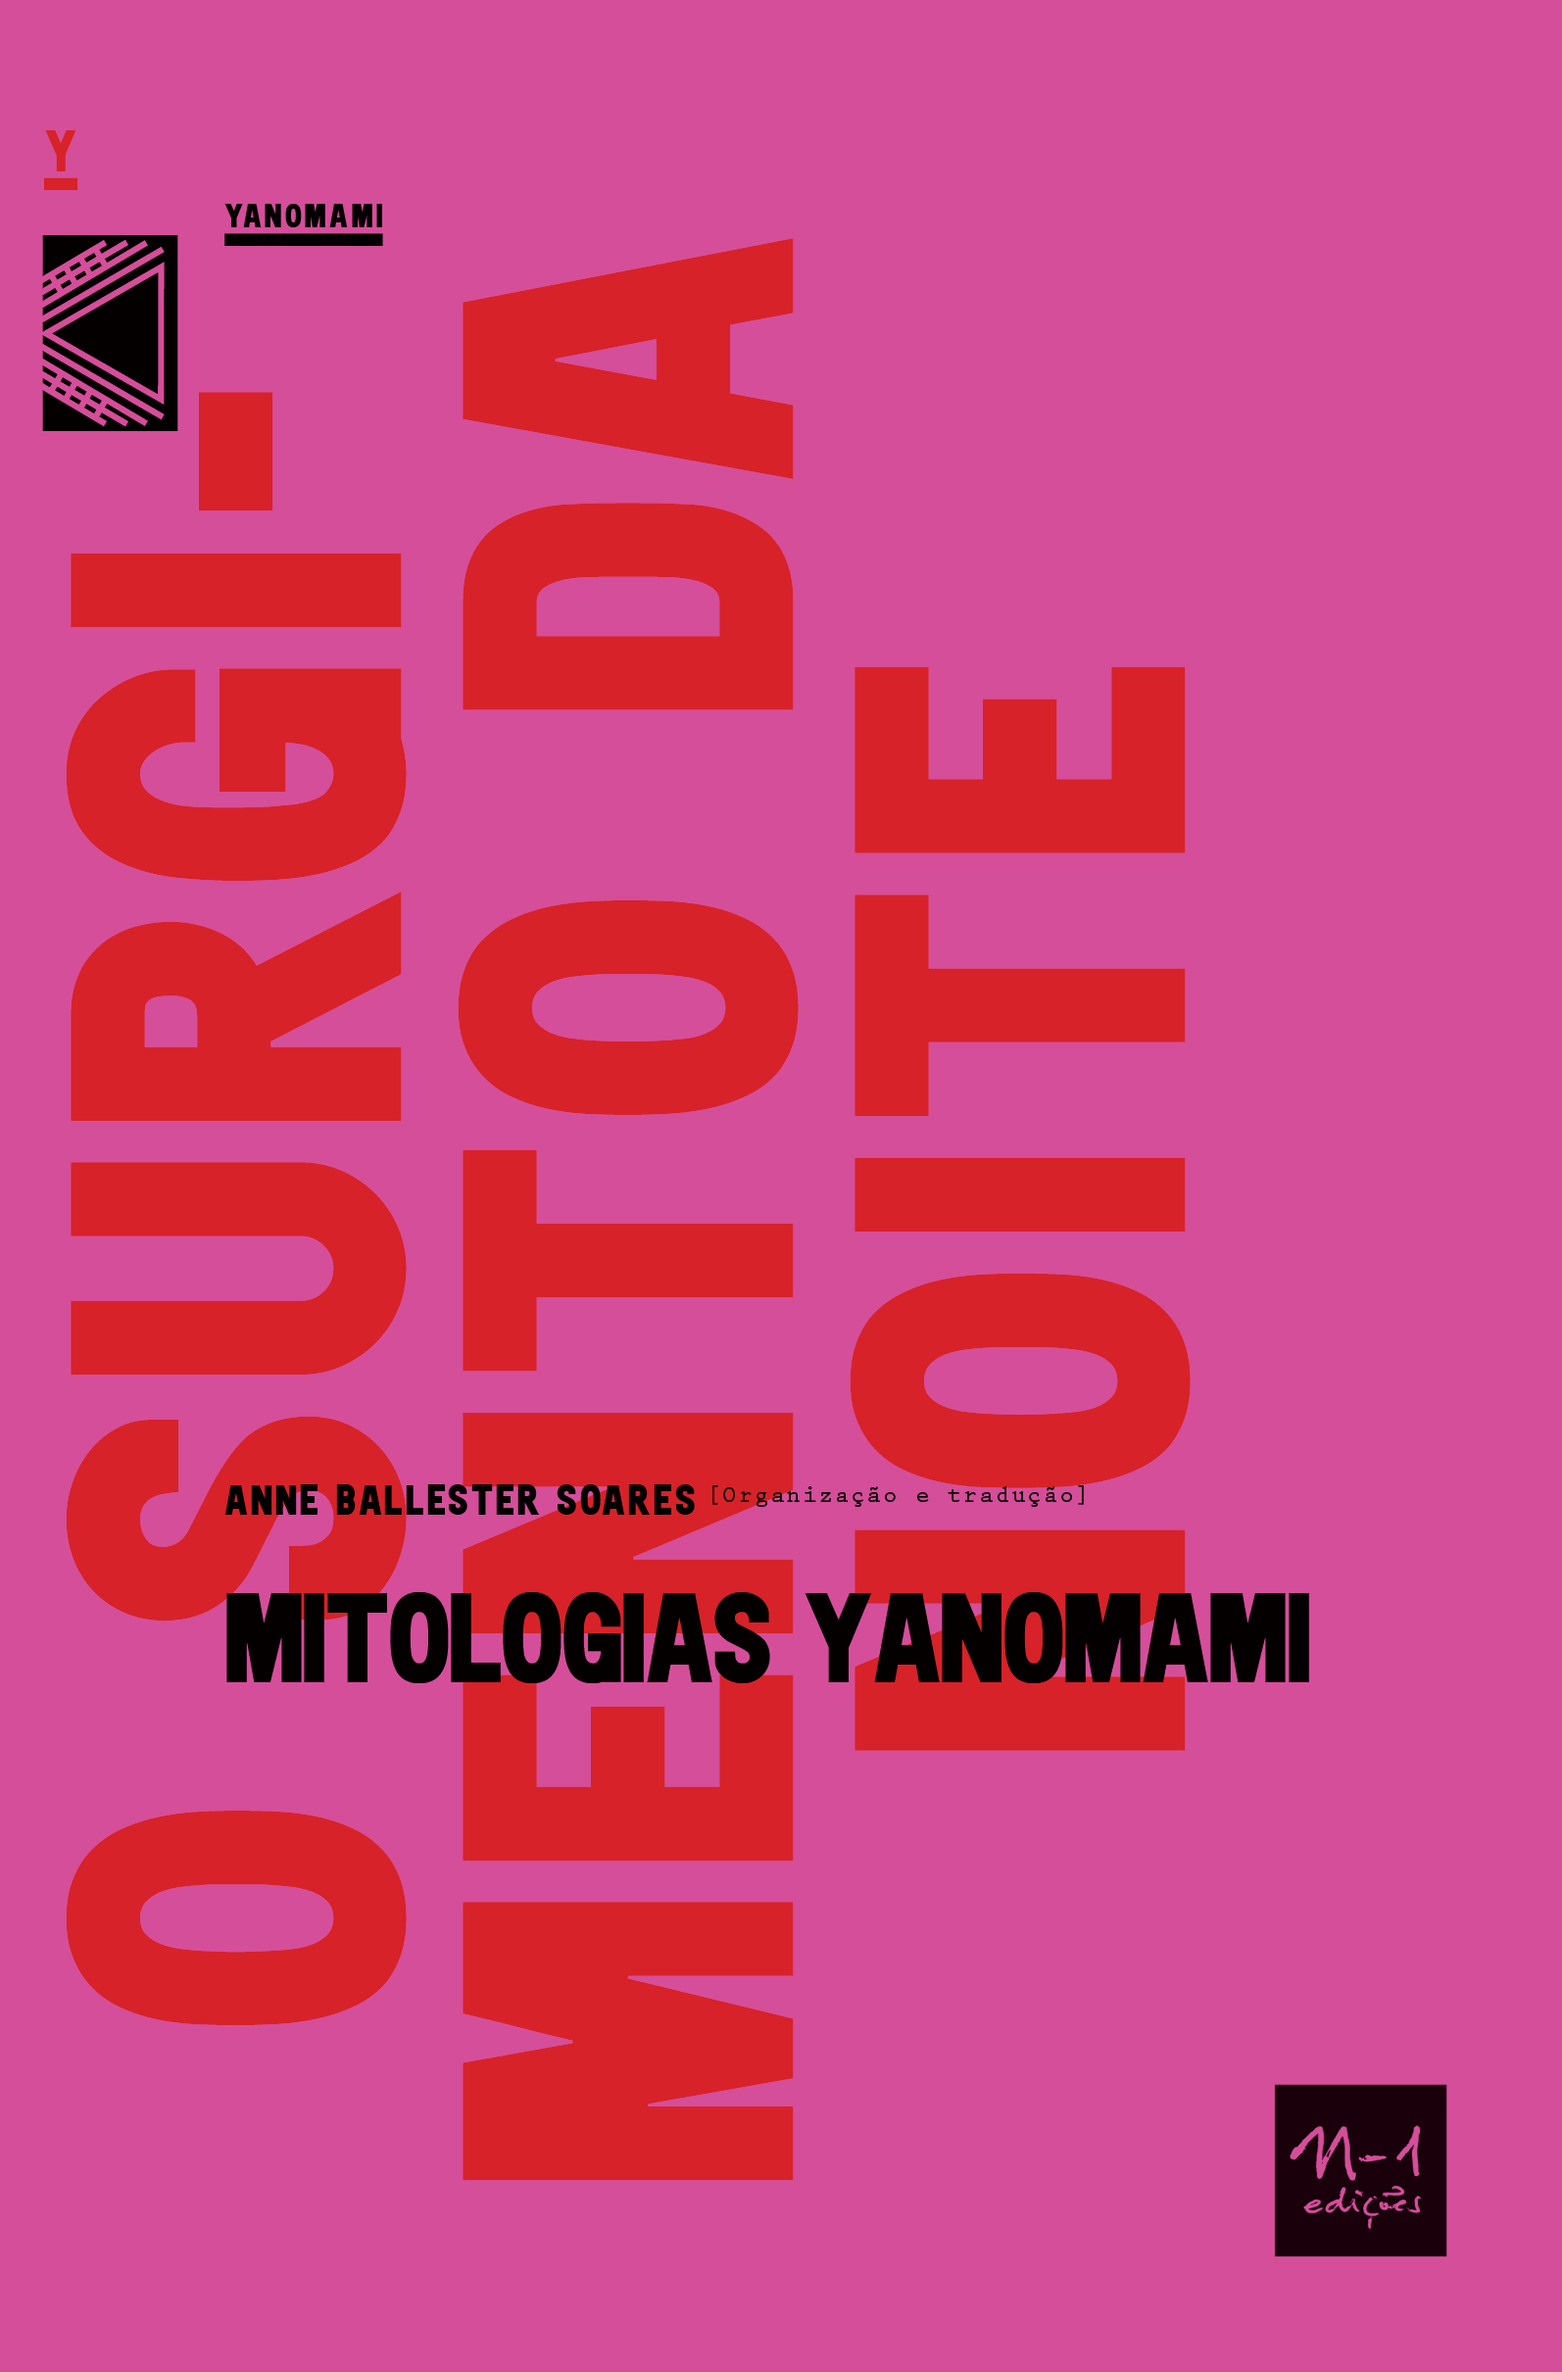
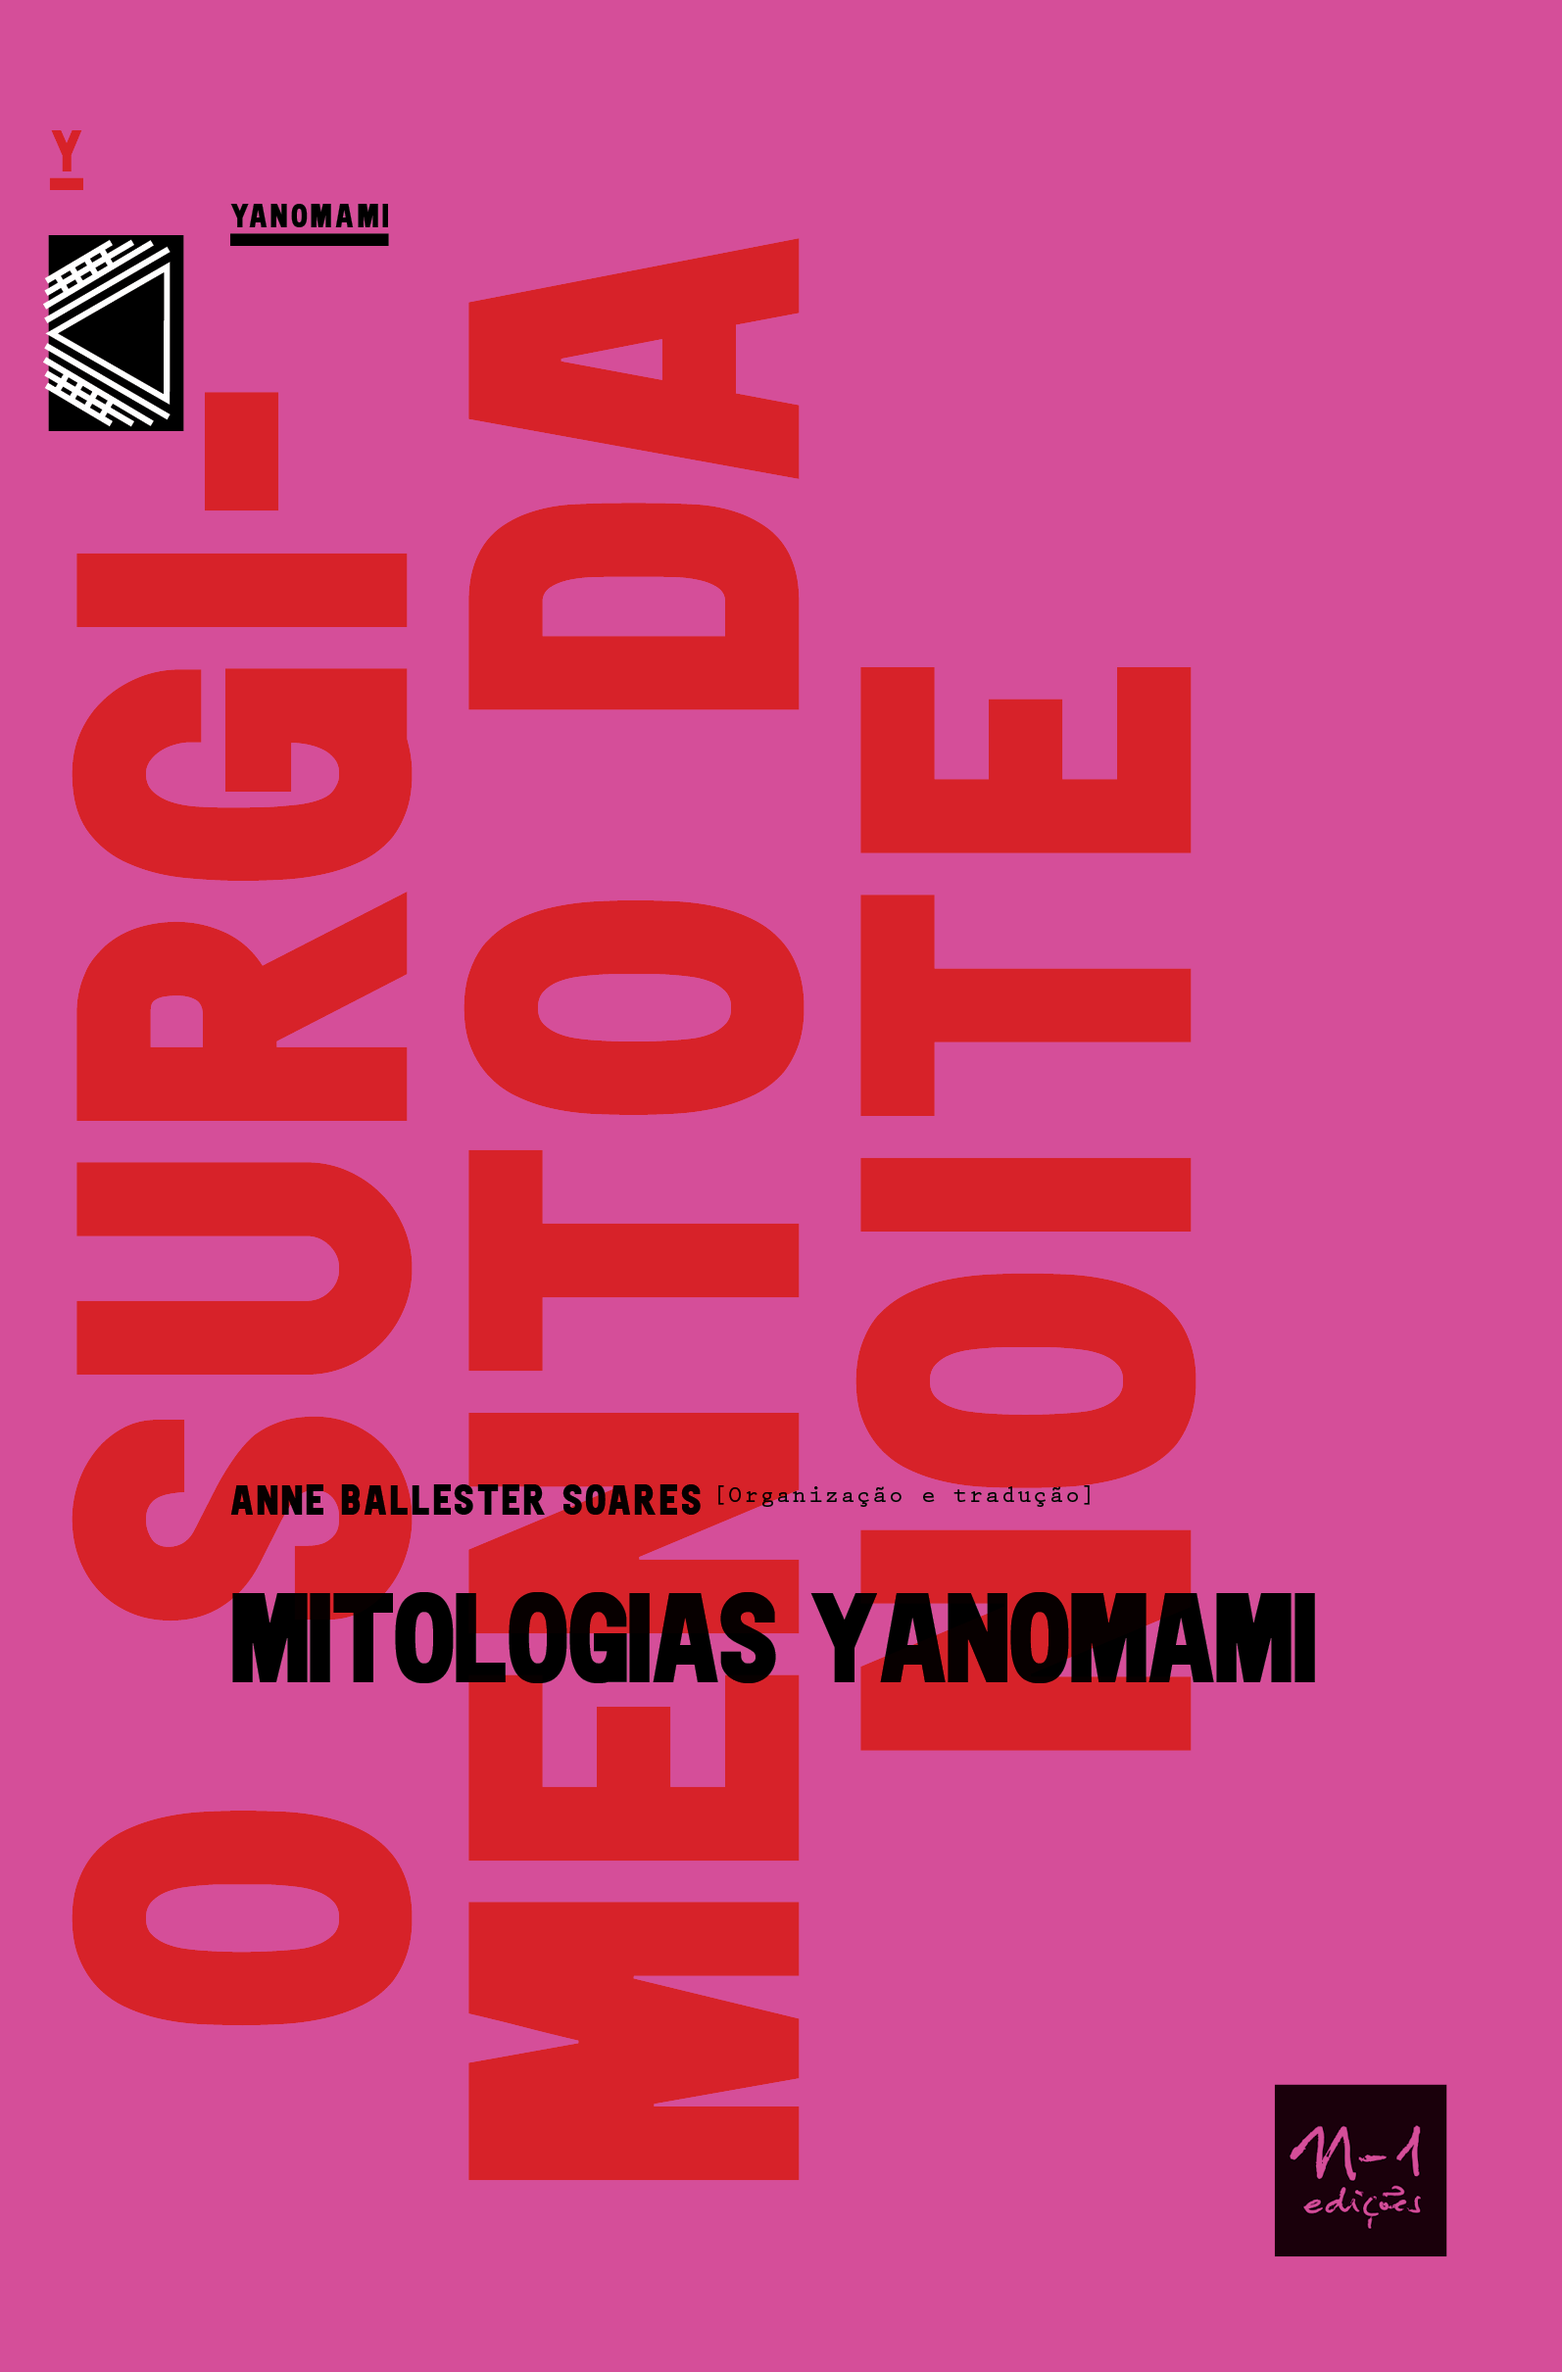
Revisão, imagens PNLD001 e 29 e acerto de capa PNLD0029

diff --git a/_MP/PNLD0011-MP.tex b/_MP/PNLD0011-MP.tex
@@ -80,13 +80,12 @@ Desejamos a todos um ótimo trabalho!
 
 \tableofcontents
 
-\Image{Bram Stoker, 1906 (National Portrait Gallery, Londres; Domínio Público)}{PNLD0011-03.png}
-
 \section{Propostas de Atividades I}
 
 
 \subsection{Pré"-leitura}
 
+\Image{Bram Stoker, 1906 (National Portrait Gallery, Londres; Domínio Público)}{PNLD0011-03.png}
 
 \paragraph{Tema} O romantismo e a prosa gótica.
 
@@ -112,16 +111,21 @@ aprofundar os estudos em obras brasileiras dessa mesma escola literária e perce
 desse movimento ao confrontar o maniqueísmo que permeavam as relações e valores da sociedade, 
 passando a olhá"-la criticamente. 
 
-\SideImage{Alvares de Azevedo introduziu a Literatura Gótica no Brasil (Acervo Digital da Biblioteca Nacional; Domínio Público)}{PNLD0011-12.png}
 
 \paragraph{Metodologia}
 
 \begin{enumerate}
+
+
 \item
 Como atividade de pré"-leitura propõe"-se um levantamento coletivo dos
 conhecimentos prévios dos alunos acerca do gótico, a polissemia da palavra e qual o
 significado da mesma nas artes, bem como suas aplicações nessa esfera.
 % levantamento coletivo : Pesquisa
+
+\SideImage{Alvares de Azevedo introduziu a Literatura Gótica no Brasil (Acervo Digital da Biblioteca Nacional; Domínio Público)}{PNLD0011-12.png}
+
+\SideImage{Augusto dos Anjos, representante da Literatura Gótica (Acervo Digital da Biblioteca Nacional; Domínio Público)}{PNLD0011-13.png}
 
 \item
 Depois dessa primeira construção feita em conjunto, sugere"-se que o professor introduza 
@@ -135,10 +139,6 @@ de Álvares de Azevedo e \emph{Macário}, do mesmo autor.
 Além de Álvares de Azevedo, também sugerimos Augusto dos Anjos e
 Alphonsus de Guimaraens, que compreende a literatura gótica como poucos.
 
-\SideImage{Augusto dos Anjos, representante da Literatura Gótica (Acervo Digital da Biblioteca Nacional; Domínio Público)}{PNLD0011-13.png}
-
-\SideImage{Alphonsus Guimaraens também representava a Literatura Gótica (Acervo Digital da Biblioteca Nacional; Domínio Público)}{PNLD0011-14.png}
-
 \item
 Como produto final para essa atividade de pré"-leitura e para o desenvolvimento de atividades 
 futuras, proponha aos alunos a elaboração de um caderno de anotações, como uma espécie de diário de bordo, 
@@ -149,6 +149,9 @@ para registrar o andamento de seu percurso discente no universo gótico.
 \end{enumerate}
 
 \paragraph{Tempo estimado} Duas aulas de 50 minutos. 
+
+\Image{Alphonsus Guimaraens também representava a Literatura Gótica (Acervo Digital da Biblioteca Nacional; Domínio Público)}{PNLD0011-14.png}
+
 
 \subsection{Leitura}  
 
@@ -188,6 +191,8 @@ desse movimento.
 
 \paragraph{Metodologia}
 
+\SideImage{Primeira edição alemã do livro do autor, "Drácula", Max Altmann, Leipzig 1908. (Selfie756; CC-BY-SA-4.1)}{PNLD0011-05.png}
+
 \begin{enumerate}
 \item
 Como atividade de leitura, proponha aos alunos que estabeleçam paralelos com trechos da obra
@@ -200,7 +205,6 @@ Para aprofundarem suas pesquisas os alunos podem se valer do magnum opus do auto
 \emph{Drácula}, mesclando"-o com cenas de filmes que o adaptaram, bem como de filmes e séries de
 vampirescas, como sugestão \emph{Nosferatu} de F.W. Murnau, disponível no \href{https://www.youtube.com/watch?v=FC6jFoYm3xs&ab_channel=TimelessClassicMovies}{Youtube}.
 
-\SideImage{Primeira edição alemã do livro do autor, "Drácula", Max Altmann, Leipzig 1908. (Selfie756; CC-BY-SA-4.1)}{PNLD0011-05.png}
 
 \item
 Por fim, proponha aos alunos que criem uma personagem com as devidas características góticas, 
